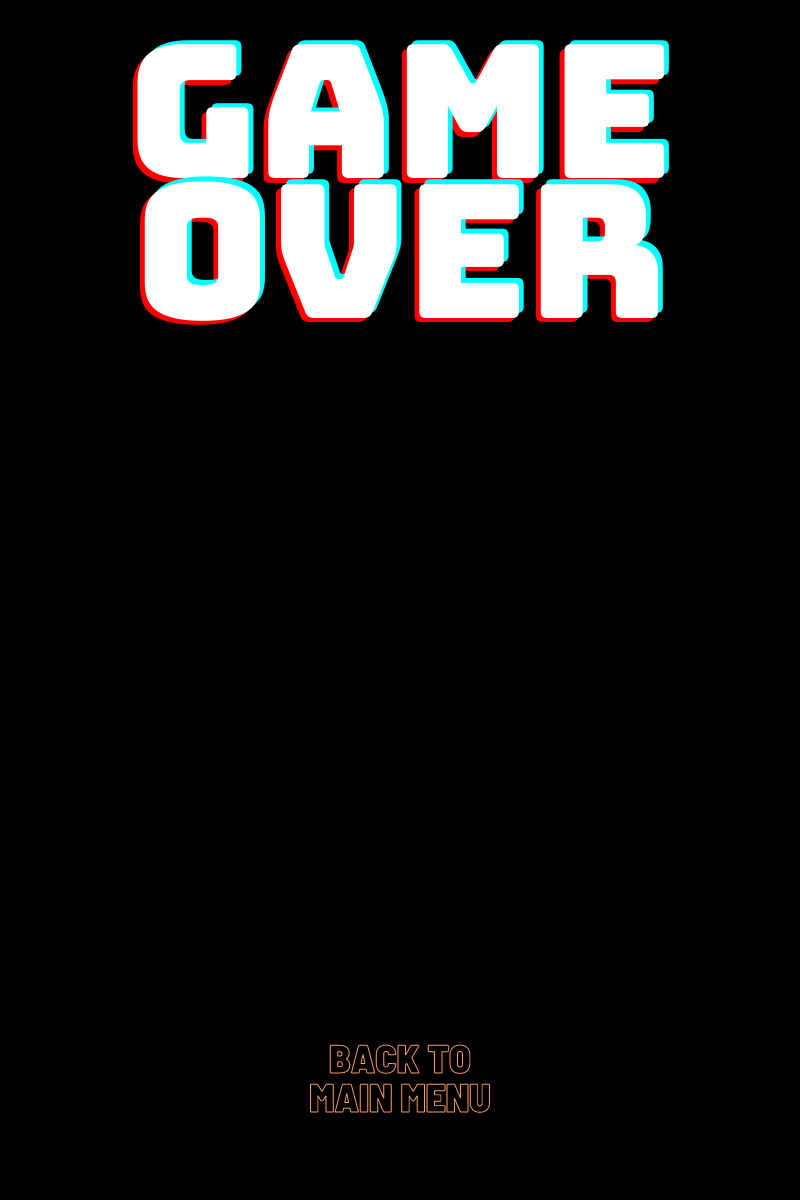
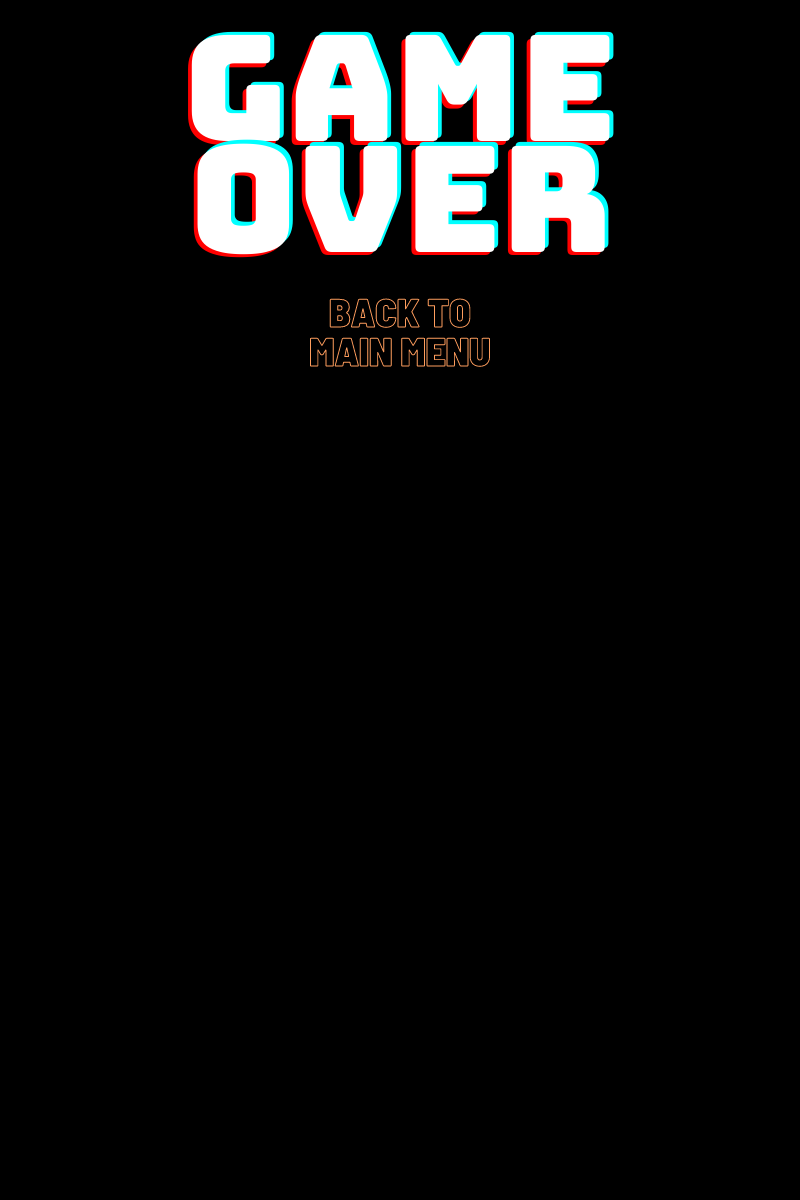
Update game over screen (testing on phone)

Changed region(s): [[0.1562, 0.0, 0.8438, 0.3083], [0.375, 0.8633, 0.625, 0.925]]

diff --git a/public/scripts/p1Scripts/p1WhacAMole.js b/public/scripts/p1Scripts/p1WhacAMole.js
@@ -321,6 +321,8 @@ function gameOver() {
     push();
     image(gameOverScreenImg, 0, 0, width, height);
 
+    let leaderboardPos = document.getElementById('leaderboard').getBoundingClientRect();
+
     fill(255);
     textSize(20);
     textAlign(CENTER);
@@ -331,8 +333,6 @@ function gameOver() {
         , width / 2, height / 2 - height / 2 * 0.3);
 
     pop();
-
-    let leaderboardPos = document.getElementById('leaderboard').getBoundingClientRect();
 
     inputBox.position(leaderboardPos.x - 10, leaderboardPos.y - 50);
     submitBtn.position(inputBox.x + inputBox.width + 1, inputBox.y);
@@ -349,7 +349,6 @@ function gameOver() {
     document.getElementById('leaderboard').style.visibility = "visible";
     leaderboard.getScores();
 
-    //fill(255, 0, 0);
     let backToMenuBtn = {
         "bottomLeftX": 0,
         "bottomLeftY": 0,
@@ -360,26 +359,28 @@ function gameOver() {
         "topRightX": 0,
         "topRightY": 0
     }
+    //fill(255, 0, 0);
+
     backToMenuBtn.bottomRightX = width / 2 + width / 2 * 0.23;
-    backToMenuBtn.bottomRightY = height / 2 + height / 2 * 0.82;
+    backToMenuBtn.bottomRightY = height / 2 - height/2 * 0.4;
 
     //rect(backToMenuBtn.bottomRightX, backToMenuBtn.bottomRightY, 10, 10);
     //fill(255, 255, 0);
 
     backToMenuBtn.topRightX = width / 2 + width / 2 * 0.23;
-    backToMenuBtn.topRightY = height / 2 + height / 2 * 0.71;
+    backToMenuBtn.topRightY = height / 2 - height / 2 * 0.5;
 
     //rect(backToMenuBtn.topRightX, backToMenuBtn.topRightY, 10, 10);
     //fill(255, 0, 255);
 
-    backToMenuBtn.topLeftX = width / 2 - width / 2 * 0.23;
-    backToMenuBtn.topLeftY = height / 2 + height / 2 * 0.71;
+    backToMenuBtn.topLeftX = width / 2 - width / 2 * 0.24;
+    backToMenuBtn.topLeftY = height / 2 - height / 2 * 0.5;
 
     //rect(backToMenuBtn.topLeftX, backToMenuBtn.topLeftY, 10, 10);
     //fill(0, 0, 255);
 
-    backToMenuBtn.bottomLeftX = width / 2 - width / 2 * 0.23;
-    backToMenuBtn.bottomLeftY = height / 2 + height / 2 * 0.82;
+    backToMenuBtn.bottomLeftX = width / 2 - width / 2 * 0.24;
+    backToMenuBtn.bottomLeftY = height / 2 - height / 2 * 0.4;
 
     //rect(backToMenuBtn.bottomLeftX, backToMenuBtn.bottomLeftY, 10, 10);
 

diff --git a/public/stylesheets/p1Style.css b/public/stylesheets/p1Style.css
@@ -12,6 +12,6 @@ Leaderboard
     left: 50%;
     transform: translate(-50%, -50%);
     width: 50%;/*210px;*/
-    height: 200px;
+    height: 20%;
     font-size: 20px;
 }
